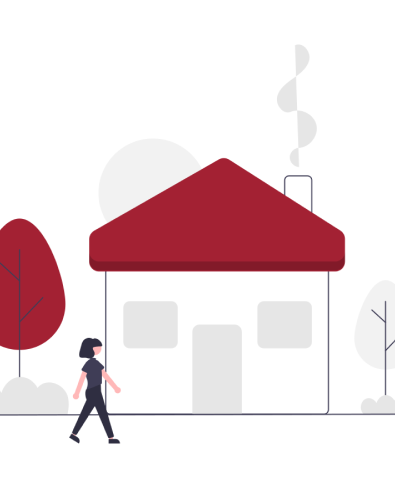
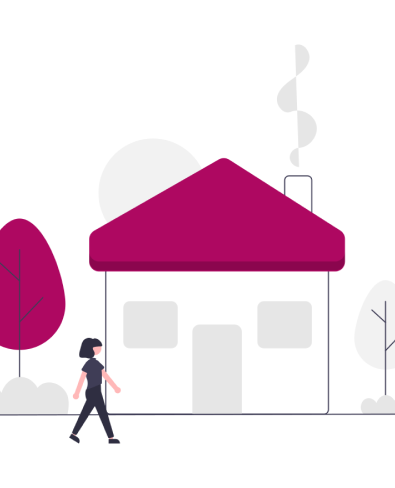
versao da home v2

Changed region(s): [[0.2127, 0.3074, 0.881, 0.5533], [0.0, 0.4303, 0.1823, 0.7377]]

diff --git a/style.css b/style.css
@@ -34,17 +34,17 @@ body{
     padding: 18px 40px;
     box-shadow: 0 0.1rem 0.5rem #ccc;
     width: 100%;
-    background: #CF8C95;
+    background: #AE0861;
     transition: all 0.5s;
     position: fixed;
 }
 .navigation .logo{
-    color: #a32133;
+    color: #d870a7;
     font-size: 1.7rem;
     font-weight: 600;
 }
 .logo span{
-    color: var(--dark);
+    color: var(--white);
 }
 .navigation ul{
     display: flex;
@@ -52,7 +52,7 @@ body{
     gap: 5rem;
 }
 .navigation ul li a{
-    color: var(--dark);
+    color: var(--white);
     font-size: 17px;
     font-weight: 500;
     transition: all 0.5s;
@@ -73,13 +73,13 @@ body{
     width: 28px;
     height: 3px;
     border-radius: 3px;
-    background: var(--dark);
+    background: var(--white);
     margin: 5px auto;
     transition: all 0.3s;
 }
 .menu .bar:nth-child(1),
 .menu .bar:nth-child(3){
-    background: #a32133;
+    background: #d870a7;
 }
 .home{
     width: 100%;
@@ -94,7 +94,7 @@ body{
 }
 .home-text .text-h4{
     font-size: 1.5rem;
-    color: #a32133;
+    color: #AE0861;
     margin-bottom: 1rem;
 }
 .home-text .text-h1{
@@ -108,21 +108,21 @@ body{
     font-size: 5vh;
     margin-bottom: 1rem;
     line-height: 4rem;
-    color: #a32133;
+    color: #AE0861;
 }
 .home-text p{
     margin-bottom: 4rem;
 }
 .home-btn{
     padding: 15px 45px;
-    background: #a32133;
+    background: #AE0861;
     color: var(--white);
     border-radius: 10px;
     font-weight: 700;
     transition: all 0.5s;
 }
 .home-btn:hover{
-    background: #a32133;
+    background: #a10419;
 }
 .home-img img{
     width: 100%;
@@ -187,8 +187,8 @@ body{
 /* ESTILO DO SOBRE */
 section.sobre {
     padding: 80px 4%;
-    background-color: #a32133;
-    box-shadow: 0 0 40px 10px #a32133;
+    background-color: #AE0861;
+    box-shadow: 0 0 40px 10px #AE0861;
     border-radius: 30px;
 }
 
@@ -205,18 +205,18 @@ section.sobre .flex {
     font-size: 40px;
     line-height: 40px;
     margin-bottom: 30px;
-    color: #000;
+    color: #fff;
 }
 
 .sobre .txt-sobre h2 span {
-    color: #CF8C95;
+    color: #d870a7;
     display: block;
 }
 
 .sobre .txt-sobre p {
     margin: 20px 0;
     text-align: justify;
-    color: #000;
+    color: #fff;
 }
 
 .btn-social button {
@@ -224,7 +224,7 @@ section.sobre .flex {
     height: 60px;
     border-radius: 50%;
     border: none;
-    background-color: #a32133;
+    background-color: #AE0861;
     font-size: 22px;
     cursor: pointer;
     margin: 0 5px;
@@ -267,11 +267,45 @@ section.sobre .flex {
     .img-sobre img{
         width: 100%;
     }
+
+    /* TOPO DO SITE */
+
+    section.topo-do-site .flex {
+        gap: 40px;
+    }
+
+    section.topo-do-site {
+        padding: 20px 8%;
+    }
+
+    .topo-do-site h1 {
+        font-size: 30px;
+    }
+
+    .topo-do-site .img-topo-site img {
+        width: 100%;
+    }
+
+    /* ESPECIALIDADES */
+    section.especiliadades {
+        padding: 40px 8%;
+    }
+
+    /* SOBRE */
+    section.sobre {
+        padding: 80px 8%;
+    }
+
+    .sobre .txt-sobre h2 {
+        font-size: 34px;
+        line-height: 35px;
+        text-align: center;
+    }
 }
 
 /* ESTILO DO TOPO DO SITE */
 section.topo-do-site {
-    padding: 40px 4%;
+    padding: 100px 4%;
 }
 
 section.topo-do-site .flex {

diff --git a/index.html b/index.html
@@ -17,7 +17,6 @@
                 <li class="nav-item"><a href="#">Home</a></li>
                 <li class="nav-item"><a href="#">Violências</a></li>
                 <li class="nav-item"><a href="#">Leis e Direitos</a></li>
-                <i class='bx bx-search'></i>
             </ul>
             <div class="menu">
                 <span class="bar"></span>
@@ -53,13 +52,28 @@
                     <p>O ingresso no espaço é feito por meio de encaminhamento da Delegacia Especializada no Atendimento à Mulher (DEAM), demais delegacias, pela Casa da Mulher Brasileira ou por ordem judicial. As mulheres podem ir acompanhadas de seus filhos ou dependentes. Do sexo masculino, até doze anos de idade incompletos, e do sexo feminino, sem limitação de idade. Durante o período na Casa, as mulheres e seus dependentes recebem cuidados na área da saúde, orientações para o retorno ao mercado de trabalho e direcionamento escolar, a depender das necessidades de cada caso.</p>
                     <div class="btn-social">
                         <a href="#"><button><i class="bi bi-instagram"></i></button></a>
-                        <a href="#"><button><i class="bi bi-youtube"></i></button></a>
-                        <a href="#"><button><i class="bi bi-linkedin"></i></button></a>
+                        <a href="#"><button><i class="bi bi-github"></i></button></a>
                     </div><!--btn-social-->
                 </div><!--txt-sobre-->
             </div><!--flex-->
         </div><!--interface-->
     </section><!--sobre-->
+
+    <section class="topo-do-site">
+        <div class="interface">
+            <div class="flex">
+                <div class="txt-topo-site">
+                    <h1>PUBLICO ALVO<span>.</span></h1>
+                    <p>O público-alvo das casas de acolhimento para mulheres geralmente são mulheres em situação de vulnerabilidade e risco, como vítimas de violência doméstica, abuso sexual, tráfico humano, em situação de rua, em contexto de migração forçada, entre outras situações de fragilidade. Essas casas oferecem um ambiente seguro e apoio psicossocial, jurídico e muitas vezes também assistência médica para ajudar essas mulheres a reconstruírem suas vidas e recuperarem sua autonomia. Acompanhadas ou não de seus filhos com idade abaixo de 18 anos.</p>
+                </div><!--txt-topo-site-->
+
+                <div class="img-topo-site">
+                    <img src="img/womens.png" alt="">
+                </div><!--img-topo-site-->
+            </div><!--flex-->
+        </div><!--interface-->
+    </section><!--topo-do-site-->
+
 
     
     <script src="script.js"></script>
